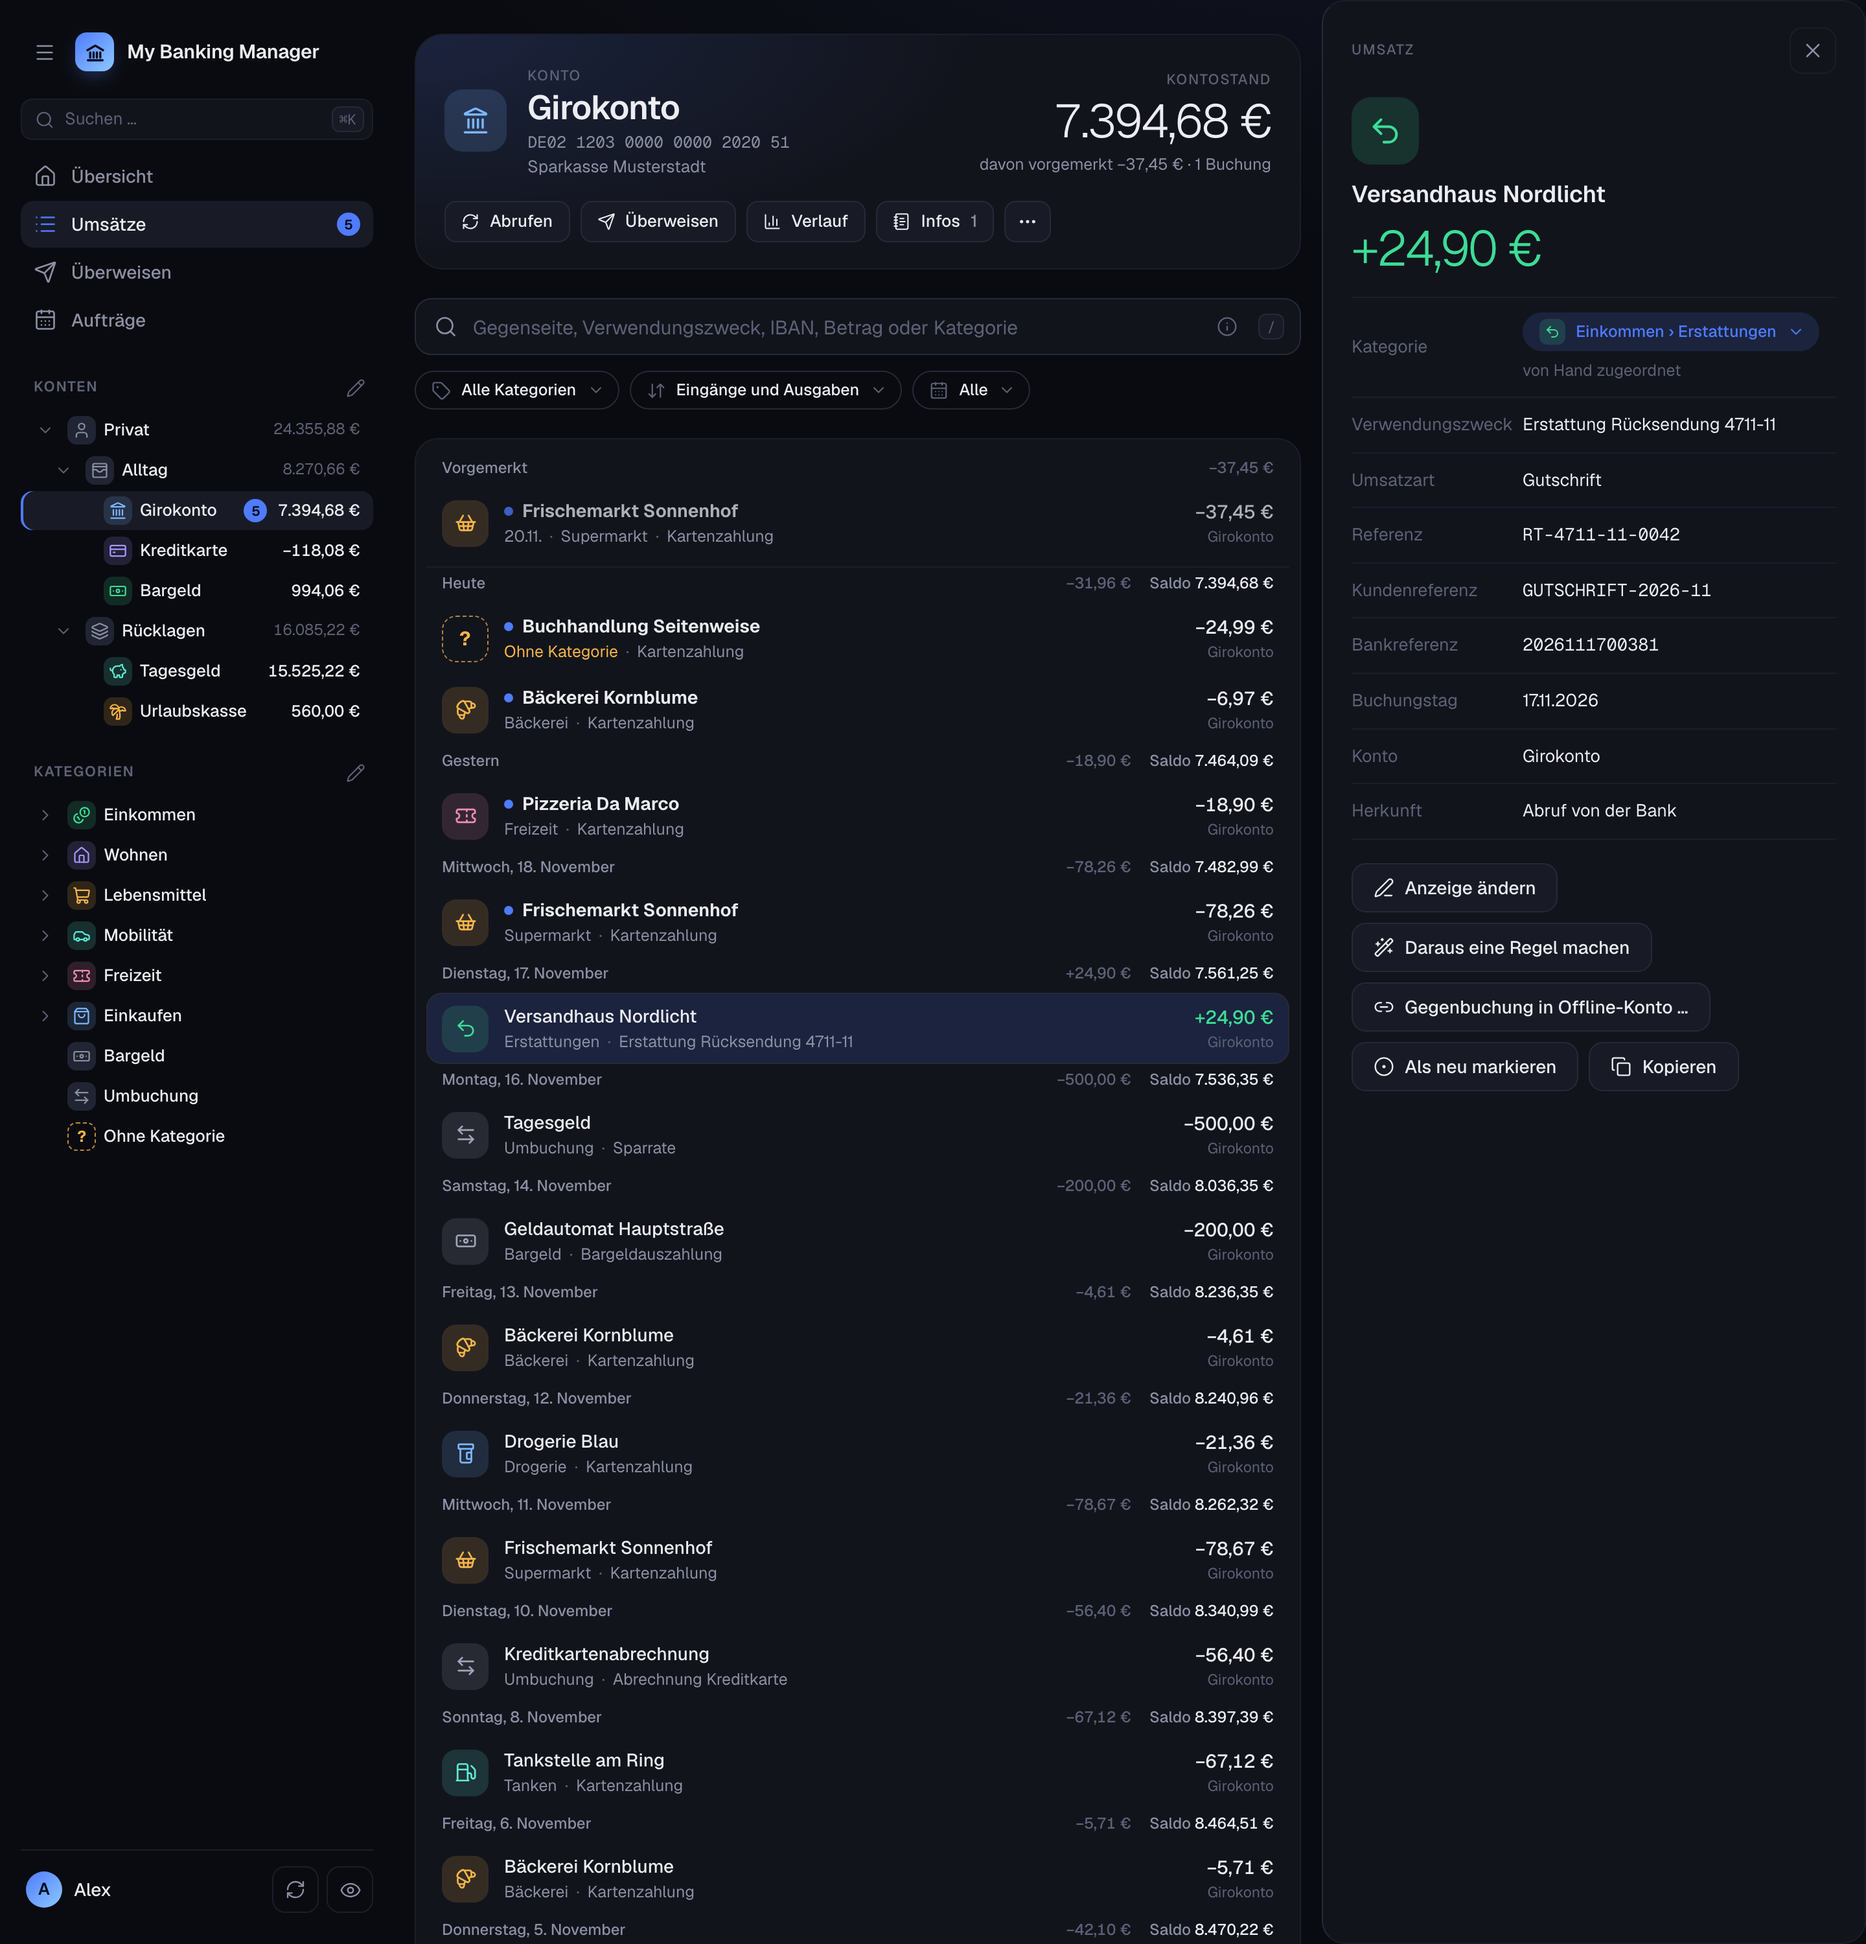
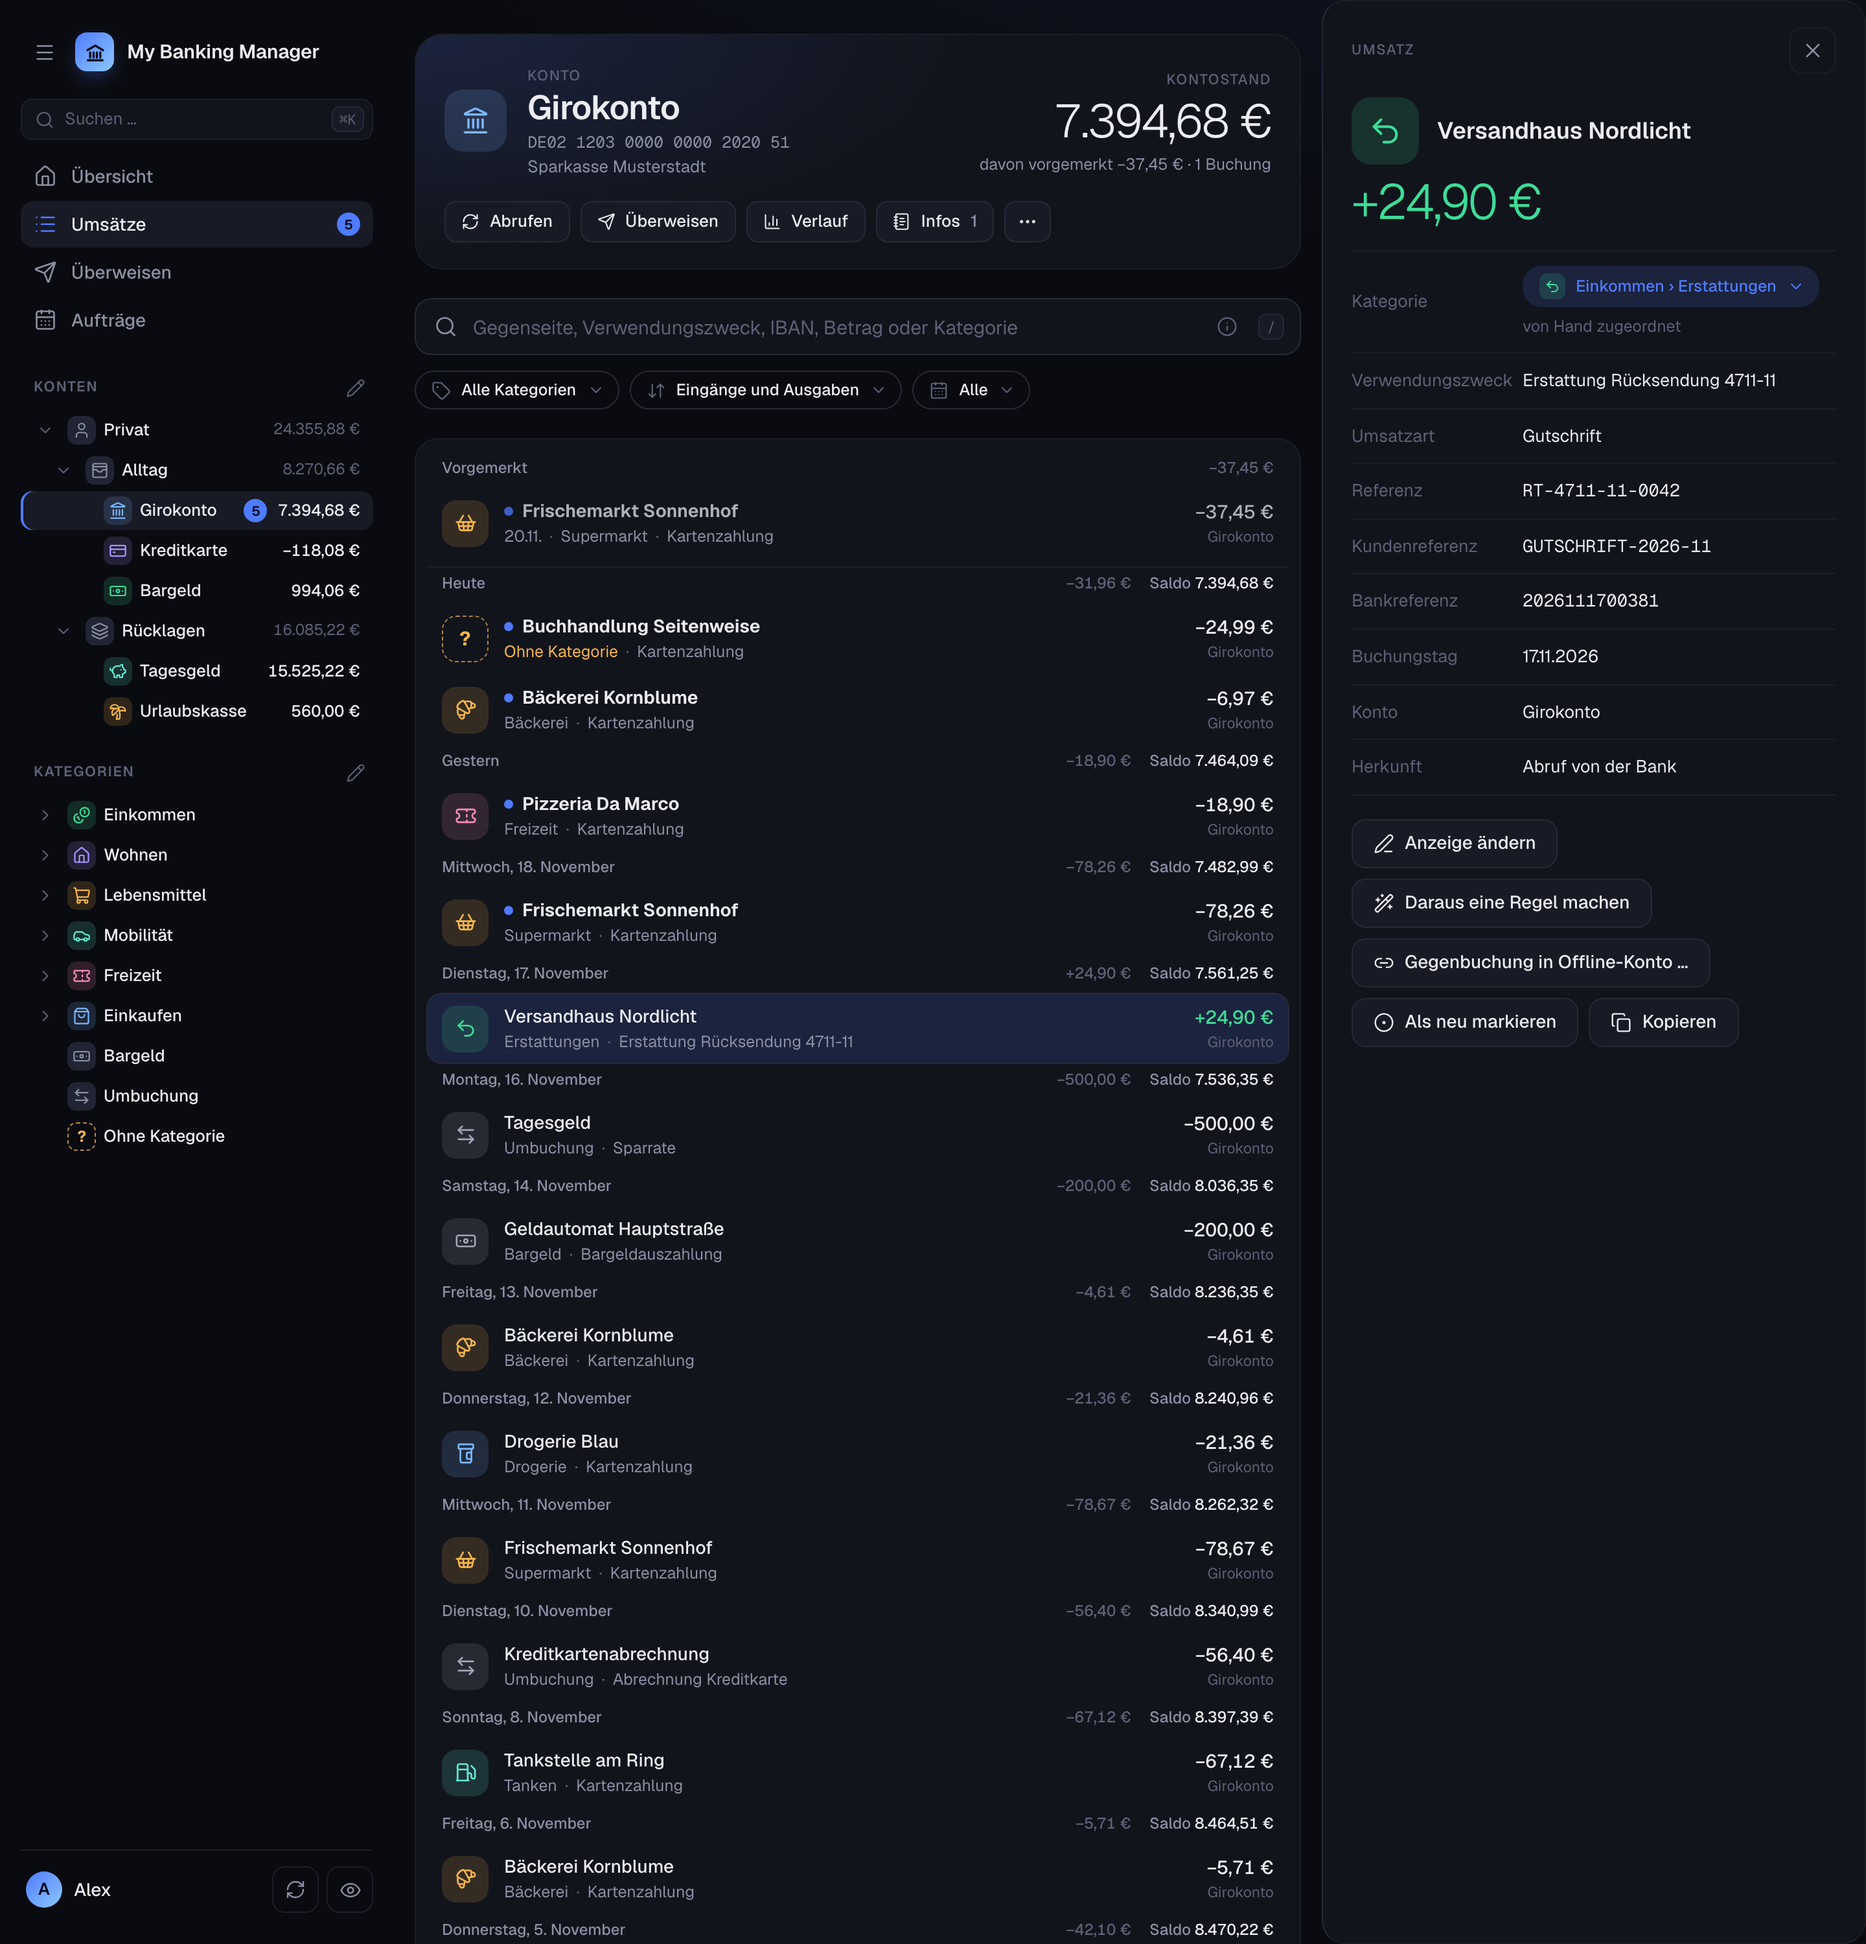
feat(umsätze): Name neben dem Symbol und voller Kategoriepfad in den Details
In den Details eines Umsatzes steht der Name rechts neben dem Symbol der
Kategorie. Der Kategoriepfad bleibt vollständig sichtbar und bricht
bevorzugt zwischen den Ebenen um; der Button wächst in der Höhe mit,
statt dass der Text aus der festen Höhe ragt. Eine Auswahlliste ist nie
schmaler als ihr Button.

Changed region(s): [[0.7188, 0.062, 0.9688, 0.558], [0.7188, 0.217, 0.7812, 0.403]]

diff --git a/clients/web/src/pages/TxDrawer.tsx b/clients/web/src/pages/TxDrawer.tsx
@@ -6,7 +6,7 @@ import { call } from "../lib/api";
 import { useAccounts, useAction, useCategoryIndex, useGroups, useRules, useTransferAccounts, useTxById } from "../lib/queries";
 import { useStartTransfer } from "../lib/transfer";
 import { firstRuleFor } from "../lib/querytarget";
-import { categoryColor, categoryPath } from "../lib/tree";
+import { categoryAncestors, categoryColor, categoryPath } from "../lib/tree";
 import { dateText, fmtSigned, partyName, shownParty, shownPurpose } from "../lib/format";
 import { openRuleForm, openRunRules } from "../lib/rules";
 import { copyText } from "../lib/clipboard";
@@ -119,28 +119,30 @@ function Drawer({ id, panel }: { id: number; panel: boolean }) {
                         </RDialog.Close>
                     </div>
                     <div className="d-hero">
-                        <Picker
-                            items={catItems}
-                            value={tx.categoryId === null ? "none" : String(tx.categoryId)}
-                            onPick={(v) => void assign(v)}
-                            placeholder="Kategorie suchen …"
-                            trigger={
-                                <button
-                                    className={`av av-l ${c ? `k-${categoryColor(index, c.id)}` : "none"}`}
-                                    aria-label="Kategorie wählen"
-                                    title="Kategorie wählen"
-                                    style={c ? ({ "--c": `var(--p-${categoryColor(index, c.id)})` } as React.CSSProperties) : undefined}
-                                >
-                                    {c ? <Sym name={c.icon} size={26} /> : "?"}
-                                </button>
-                            }
-                        />
-                        <RDialog.Title asChild>
-                            <h2>
-                                {name}
-                                {tx.status === "pending" && <span className="pill">vorgemerkt</span>}
-                            </h2>
-                        </RDialog.Title>
+                        <div className="d-head">
+                            <Picker
+                                items={catItems}
+                                value={tx.categoryId === null ? "none" : String(tx.categoryId)}
+                                onPick={(v) => void assign(v)}
+                                placeholder="Kategorie suchen …"
+                                trigger={
+                                    <button
+                                        className={`av av-l ${c ? `k-${categoryColor(index, c.id)}` : "none"}`}
+                                        aria-label="Kategorie wählen"
+                                        title="Kategorie wählen"
+                                        style={c ? ({ "--c": `var(--p-${categoryColor(index, c.id)})` } as React.CSSProperties) : undefined}
+                                    >
+                                        {c ? <Sym name={c.icon} size={26} /> : "?"}
+                                    </button>
+                                }
+                            />
+                            <RDialog.Title asChild>
+                                <h2>
+                                    {name}
+                                    {tx.status === "pending" && <span className="pill">vorgemerkt</span>}
+                                </h2>
+                            </RDialog.Title>
+                        </div>
                         <div className={`d-amount amt ${tx.amount > 0 ? "pos" : ""}`}>{fmtSigned(tx.amount)}</div>
                     </div>
                     <dl className="d-list">
@@ -154,7 +156,16 @@ function Drawer({ id, panel }: { id: number; panel: boolean }) {
                                     placeholder="Kategorie suchen …"
                                     trigger={
                                         <PickerButton set={!!c} icon={c ? <CatTile idx={index} id={c.id} size={12} className="ti-s" /> : <Ic icon={Tag} size={14} />}>
-                                            {c ? categoryPath(index, c.id) : "Kategorie wählen"}
+                                            <span className="picker-path">
+                                                {c
+                                                    ? [...categoryAncestors(index, c.id).reverse(), c].map((x, n) => (
+                                                          <span key={x.id}>
+                                                              {n > 0 && " › "}
+                                                              <span className="seg-name">{x.name}</span>
+                                                          </span>
+                                                      ))
+                                                    : "Kategorie wählen"}
+                                            </span>
                                         </PickerButton>
                                     }
                                 />

diff --git a/clients/web/src/styles/app.css b/clients/web/src/styles/app.css
@@ -791,11 +791,19 @@ a.mini { text-decoration: none; }
 .trees-panel { padding: 12px 8px; }
 .d-hero { display: grid; justify-items: start; gap: 10px; }
 .d-hero h2 { font-size: 18px; font-weight: 600; }
+.d-head { display: flex; align-items: center; gap: 14px; min-width: 0; max-width: 100%; }
+.d-head > .av { flex: none; }
+.d-head h2 { min-width: 0; overflow-wrap: anywhere; }
 .d-amount { font-size: 38px; font-weight: 300; letter-spacing: -0.035em; line-height: 1; }
 .d-list { margin: 0; display: grid; border-top: 1px solid var(--line-soft); }
 .d-list > div { display: grid; grid-template-columns: 120px minmax(0, 1fr); gap: 12px; padding: 11px 0; border-bottom: 1px solid var(--line-soft); font-size: 13.5px; align-items: center; }
 .d-list dt { color: var(--faint); }
 .d-list dd { margin: 0; min-width: 0; overflow-wrap: anywhere; display: flex; gap: 6px; align-items: center; flex-wrap: wrap; }
+/* The full category path stays visible: it wraps between levels first, the button grows in height */
+.d-list .picker-btn { min-width: 0; max-width: 100%; height: auto; min-height: 30px; padding-top: 5px; padding-bottom: 5px; border-radius: 15px; text-align: left; }
+.d-list .picker-btn > * { flex: none; }
+.d-list .picker-btn > .picker-path { flex: 0 1 auto; min-width: 0; line-height: 1.4; }
+.picker-path .seg-name { display: inline-block; max-width: 100%; }
 .d-actions { display: flex; gap: 8px; flex-wrap: wrap; }
 .offer { display: grid; gap: 10px; padding: 14px; border-radius: 14px; background: var(--iris-soft); font-size: 13.5px; }
 .offer .row { display: flex; gap: 8px; flex-wrap: wrap; }
@@ -1318,6 +1326,8 @@ body { margin: 0; }
 .menu-content .menu-label { padding: 8px 10px 4px; font-size: 11px; letter-spacing: 0.08em; text-transform: uppercase; color: var(--faint); font-weight: 500; }
 .pop-content { z-index: 90; }
 .pop-content .pop { position: static; animation: pop 0.14s ease; }
+/* Never narrower than a wide trigger, e.g. a long category path */
+.pop-content .pop:not(.qhelp) { min-width: min(var(--radix-popover-trigger-width, 0px), calc(100vw - 24px)); }
 .tree-empty { font-size: 12.5px; color: var(--faint); padding: 4px 10px; }
 .sr-only { position: absolute; width: 1px; height: 1px; padding: 0; margin: -1px; overflow: hidden; clip: rect(0, 0, 0, 0); white-space: nowrap; border: 0; }
 

diff --git a/.release/next.md b/.release/next.md
@@ -21,7 +21,9 @@ Nothing inside an HTML comment is published.
 - Konten mit seltenen Buchungen verlangen beim Abruf nicht mehr jedes Mal eine Freigabe in der App: Ein Abruf beginnt jetzt zwei Wochen vor dem letzten Abruf des Kontos statt zwei Wochen vor seiner neuesten Buchung, die Monate zurückliegen kann. Nach dem Update gilt für jedes Konto beim ersten Abruf noch die alte Regel.
 - Das Fenster „Abruf“, das sich für eine Freigabe öffnet, schließt sich nach einem erfolgreichen Abruf von selbst; das Ergebnis meldet wie gewohnt eine Nachricht. Offen bleibt es nur, wenn es etwas zu lesen gibt, etwa neue oder fehlende Konten bei der Bank. Statt „Alle abrufen“ bietet es bei einem fehlgeschlagenen Abruf „Erneut abrufen“ für diesen Bankzugang an.
 - Über der Umsatzliste steht nicht mehr die Zeile mit Anzahl und Summe der Umsätze. Die Summe einer Kategorie zeigt weiterhin ihr Kopf.
+- In den Details eines Umsatzes steht sein Name rechts neben dem Symbol der Kategorie statt darunter.
 
 ### Behoben
 
 - Wählst du in der Umsatzliste über das Symbol eines Umsatzes eine Kategorie, öffnen sich nicht mehr zusätzlich die Details des Umsatzes.
+- In den Details eines Umsatzes bricht eine Kategorie mit langem Namen oder Pfad sauber um: bevorzugt zwischen den Ebenen, das Feld wächst mit, und die Auswahlliste ist mindestens so breit wie das Feld.
